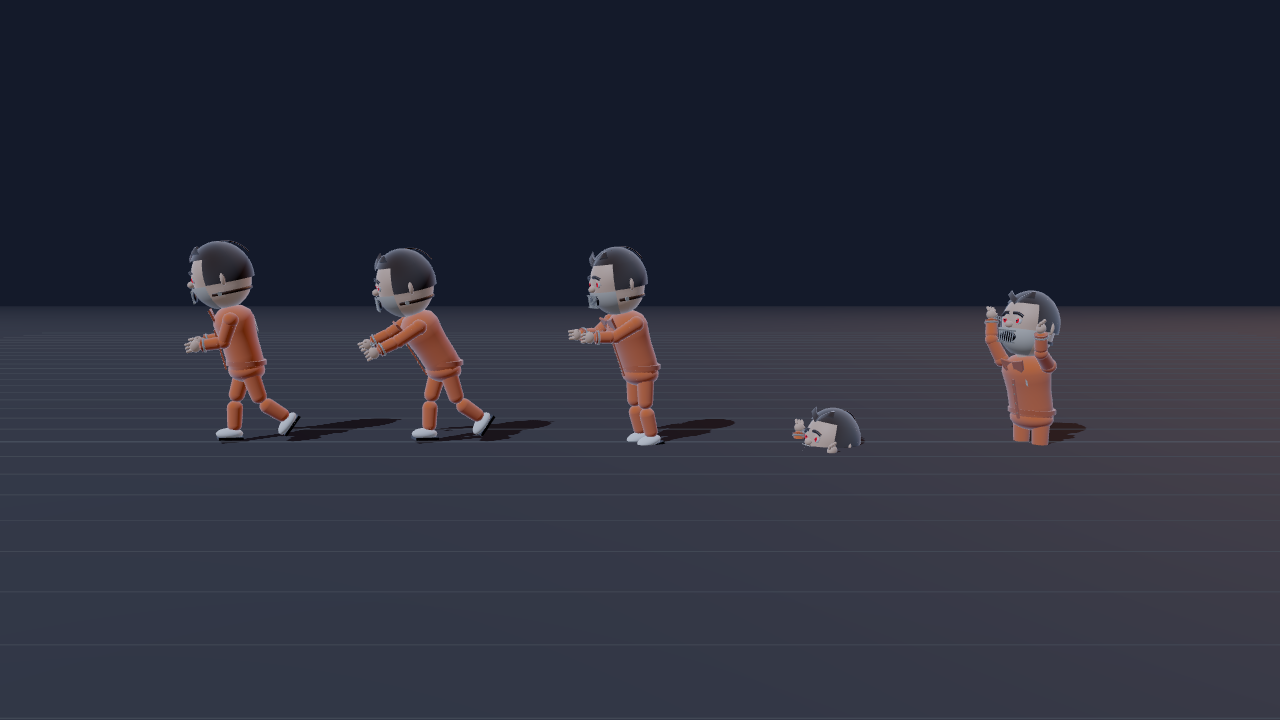
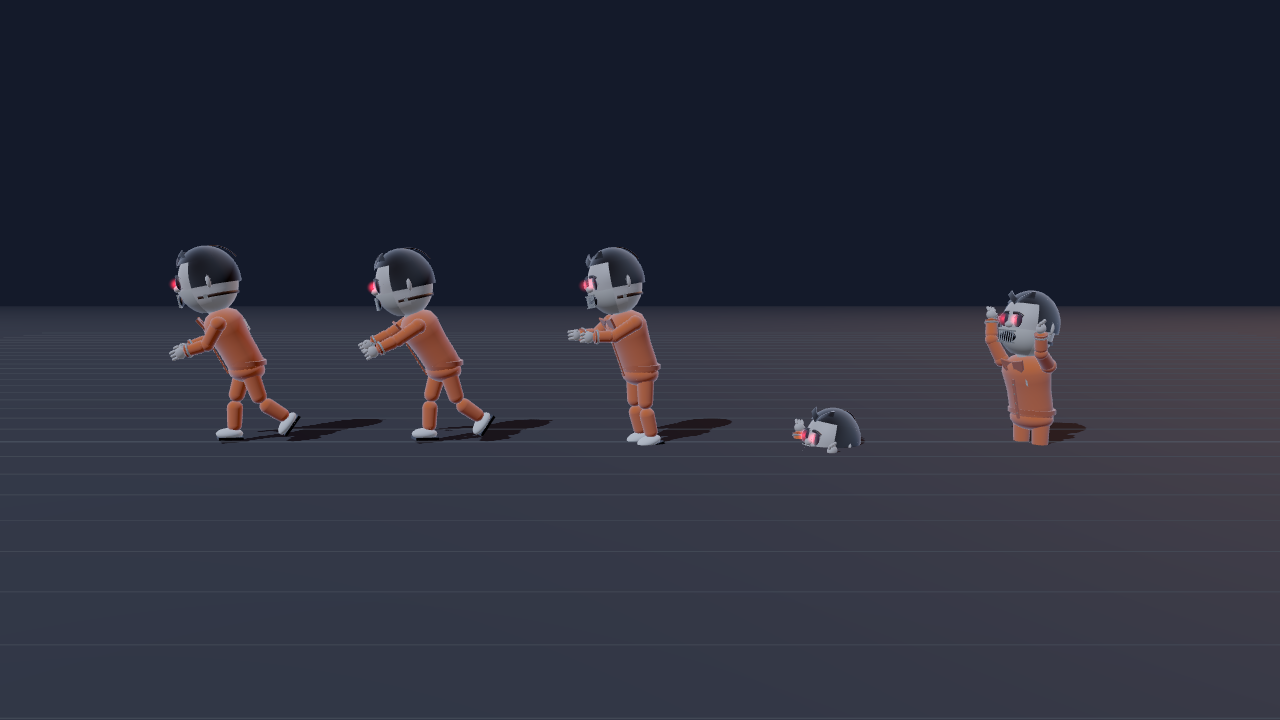
art(halloween): make the villains scarier
- burning eyes: glowing irises (electric blue / blood red / sickly yellow) with additive
  glow sprites that pulse and flicker, pin-prick pupils, yellowed whites, sunken bruised sockets
- pointed teeth in wider grins; sallow / grey / chalk-white skin; grime on the coat,
  a dark stain on the knife
- body language: hunched, head pushed forward, free hands reaching like claws while
  chasing; the head snaps to a crooked angle every second or two
- 3.0 m tall in game (was 2.6), catch reach 0.75 m

Claude-Session: https://claude.ai/code/session_01HrJej4mSimdcKNoWz6TE82

diff --git a/game/src/entities/HunterModel.ts b/game/src/entities/HunterModel.ts
@@ -275,9 +275,9 @@ const TORSO_STD: [number, number][] = [
   [0, -0.16], [0.22, -0.15], [0.29, -0.06], [0.3, 0.12], [0.3, 0.3], [0.32, 0.46], [0.34, 0.58], [0.31, 0.68], [0.2, 0.76], [0.1, 0.79], [0, 0.8],
 ];
 const SPEC: Record<HunterKind, Spec> = {
-  shock: { hipY: 0.95, hipX: 0.15, thigh: 0.45, shin: 0.4, legR: 0.12, torso: TORSO_STD.map(([r, y]) => [r * (y < 0.4 ? 1.08 : 1), y]), flat: 0.8, torsoW: 1.05, shoulderY: 0.66, shoulderX: 0.37, upper: 0.33, fore: 0.29, armR: 0.085, neckY: 0.78, head: [0.4, 0.4, 0.38], headY: 0.38, skin: P('skin', 0xf0c49c) },
-  cannibal: { hipY: 1.0, hipX: 0.15, thigh: 0.48, shin: 0.42, legR: 0.115, torso: TORSO_STD, flat: 0.76, torsoW: 1.0, shoulderY: 0.66, shoulderX: 0.37, upper: 0.34, fore: 0.3, armR: 0.085, neckY: 0.78, head: [0.34, 0.42, 0.36], headY: 0.4, skin: P('skin', 0xe8c1a6) },
-  motel: { hipY: 1.0, hipX: 0.12, thigh: 0.48, shin: 0.43, legR: 0.09, torso: TORSO_STD.map(([r, y]) => [r * 0.84, y]), flat: 0.78, torsoW: 0.9, shoulderY: 0.64, shoulderX: 0.31, upper: 0.35, fore: 0.31, armR: 0.068, neckY: 0.8, head: [0.33, 0.41, 0.34], headY: 0.42, skin: P('skin', 0xf2cdb0) },
+  shock: { hipY: 0.95, hipX: 0.15, thigh: 0.45, shin: 0.4, legR: 0.12, torso: TORSO_STD.map(([r, y]) => [r * (y < 0.4 ? 1.08 : 1), y]), flat: 0.8, torsoW: 1.05, shoulderY: 0.66, shoulderX: 0.37, upper: 0.33, fore: 0.29, armR: 0.085, neckY: 0.78, head: [0.4, 0.4, 0.38], headY: 0.38, skin: P('skin', 0xd6c7a0) },
+  cannibal: { hipY: 1.0, hipX: 0.15, thigh: 0.48, shin: 0.42, legR: 0.115, torso: TORSO_STD, flat: 0.76, torsoW: 1.0, shoulderY: 0.66, shoulderX: 0.37, upper: 0.34, fore: 0.3, armR: 0.085, neckY: 0.78, head: [0.34, 0.42, 0.36], headY: 0.4, skin: P('skin', 0xcfc8c2) },
+  motel: { hipY: 1.0, hipX: 0.12, thigh: 0.48, shin: 0.43, legR: 0.09, torso: TORSO_STD.map(([r, y]) => [r * 0.84, y]), flat: 0.78, torsoW: 0.9, shoulderY: 0.64, shoulderX: 0.31, upper: 0.35, fore: 0.31, armR: 0.068, neckY: 0.8, head: [0.33, 0.41, 0.34], headY: 0.42, skin: P('skin', 0xf1ebe6) },
 };
 
 /** Front (−Z) surface of the lathed torso at (x, y). */
@@ -308,9 +308,15 @@ interface FaceOpts {
   grin: 'smug' | 'wide' | 'none';
   lipstick?: boolean;
   glowIris?: boolean;
+  /** Yellowed / bloodshot whites. */
+  sclera?: Paint;
 }
 
-function buildFace(k: Kit, s: Spec, o: FaceOpts): void {
+/** Eye centres in head space (for the glow sprites). */
+type EyeSpots = [number, number, number][];
+
+function buildFace(k: Kit, s: Spec, o: FaceOpts): EyeSpots {
+  const spots: EyeSpots = [];
   const r = s.head;
   // Ears and nose.
   for (const sx of [-1, 1]) k.add(ell(0.05, 0.085, 0.035, 14, 10), s.skin, sx * r[0] * 0.97, -0.02, 0.02, 0, sx * 0.3, 0);
@@ -321,15 +327,16 @@ function buildFace(k: Kit, s: Spec, o: FaceOpts): void {
     const yaw = sx * o.eyeX;
     const [x, y, z] = onHead(r, yaw, o.eyeY, 0.035);
     const e = o.eyeSize;
-    k.add(ell(e * 0.85, e, e * 0.6, 20, 16), C.sclera, x, y, z, 0, yaw, 0);
+    // Sunken, bruised sockets around every eye.
+    const so = onHead(r, yaw, o.eyeY - 0.01, 0.006);
+    k.add(ell(e * 1.3, e * 1.35, e * 0.45, 18, 12), P('skin', 0x4a2c3a), so[0], so[1], so[2], 0, yaw, 0);
+    k.add(ell(e * 0.85, e, e * 0.6, 20, 16), o.sclera ?? C.sclera, x, y, z, 0, yaw, 0);
     const front = (d: number): [number, number, number] => [x + Math.sin(yaw) * d, y, z - Math.cos(yaw) * d];
     const [ix, iy, iz] = front(e * 0.5);
     k.add(ell(e * 0.5, e * 0.55, e * 0.18, 16, 12), o.glowIris ? P('glow', o.iris.c.getHex()) : o.iris, ix - sx * e * 0.08, iy - e * 0.08, iz, 0, yaw, 0);
     const [px, py, pz] = front(e * 0.6);
-    k.add(ell(e * 0.26, e * 0.3, e * 0.1, 12, 10), C.pupil, px - sx * e * 0.08, py - e * 0.08, pz, 0, yaw, 0);
-    const [hx, hy, hz] = front(e * 0.66);
-    k.add(ell(e * 0.11, e * 0.11, e * 0.05, 8, 6), C.white, hx + e * 0.12, hy + e * 0.12, hz, 0, yaw, 0);
-    k.add(ell(e * 0.05, e * 0.05, e * 0.03, 6, 5), C.white, hx - e * 0.12, hy - e * 0.2, hz, 0, yaw, 0);
+    k.add(ell(e * 0.12, e * 0.2, e * 0.1, 10, 8), C.pupil, px - sx * e * 0.08, py - e * 0.08, pz, 0, yaw, 0); // pin-prick slit
+    spots.push(front(e * 0.7));
     // Upper lid: a skin shell over the top of the eye, rotated down by `lid`.
     const lidG = new THREE.SphereGeometry(1, 20, 10, 0, Math.PI * 2, 0, Math.PI * 0.5).scale(e * 0.93, e * 1.08, e * 0.7);
     k.add(lidG, s.skin, x, y, z, 0.75 - o.lid * 0.95, yaw, sx * o.browAngle * 0.35);
@@ -343,7 +350,7 @@ function buildFace(k: Kit, s: Spec, o: FaceOpts): void {
   // Mouth.
   if (o.grin !== 'none') {
     const wide = o.grin === 'wide';
-    const w = wide ? 0.42 : 0.3;
+    const w = wide ? 0.46 : 0.38;
     const pts: [number, number, number][] = [];
     const ptsLow: [number, number, number][] = [];
     for (let i = 0; i <= 8; i++) {
@@ -355,12 +362,24 @@ function buildFace(k: Kit, s: Spec, o: FaceOpts): void {
     }
     // Mouth opening (dark), teeth band, lip line.
     const mo = onHead(r, 0, -0.42, 0.02);
-    k.add(ell(w * 0.36, wide ? 0.06 : 0.035, 0.03, 18, 10), C.mouth, mo[0], mo[1], mo[2] - 0.005);
-    const tt = onHead(r, 0, -0.39, 0.0);
-    k.add(ell(w * 0.3, wide ? 0.026 : 0.018, 0.022, 16, 8), C.teeth, tt[0], tt[1], tt[2] - 0.012);
+    k.add(ell(w * 0.36, wide ? 0.07 : 0.05, 0.03, 18, 10), C.mouth, mo[0], mo[1], mo[2] - 0.005);
+    // Pointed teeth along both lips.
+    const n = wide ? 7 : 5;
+    for (let i = 0; i < n; i++) {
+      const t = (i + 0.5) / n - 0.5;
+      const yaw = t * w * 1.4;
+      const up = (wide ? 0.07 : 0.05) * (4 * t * t) - 0.02;
+      const a = onHead(r, yaw, -0.38 + up - 0.025, 0.006);
+      k.add(new THREE.ConeGeometry(0.017, 0.055, 5).rotateX(Math.PI), C.teeth, a[0], a[1], a[2] - 0.008);
+      if (i % 2 === 0) {
+        const b = onHead(r, yaw * 0.9, -0.38 + up - (wide ? 0.11 : 0.06) * (1 - 4 * t * t) + 0.02, 0.006);
+        k.add(new THREE.ConeGeometry(0.014, 0.04, 5), C.teeth, b[0], b[1], b[2] - 0.008);
+      }
+    }
     k.add(tube(pts, o.lipstick ? 0.016 : 0.011, 16, 6), o.lipstick ? P('skin', 0xc8202e) : C.lips);
     k.add(tube(ptsLow, o.lipstick ? 0.016 : 0.009, 16, 6), o.lipstick ? P('skin', 0xc8202e) : C.lips);
   }
+  return spots;
 }
 
 // ──────────────────────────────────────────────────────── per character ──
@@ -376,6 +395,8 @@ interface Parts {
   thighR: Kit;
   shinL: Kit;
   shinR: Kit;
+  eyes?: EyeSpots;
+  eyeGlow?: number;
 }
 
 function common(s: Spec, cloth: { top: Paint; sleeve: Paint; leg: Paint; shoe: Paint; cuff?: Paint }): Parts {
@@ -429,6 +450,9 @@ function buildShock(s: Spec): Parts {
   p.torso.add(new THREE.PlaneGeometry(0.17, 0.085), P('badge', 0xffffff), -0.17, 0.5, torsoZ(s, -0.17, 0.5) - 0.012, 0, Math.PI - 0.6, 0); // badge (wearer's left)
   p.torso.add(box(0.15, 0.12, 0.015), coatShade, 0.17, 0.48, torsoZ(s, 0.17, 0.48) - 0.006, 0, 0.6, 0); // breast pocket
   p.torso.add(cyl(0.012, 0.012, 0.13, 8), P('gloss', 0x1f5fbf), 0.15, 0.56, torsoZ(s, 0.15, 0.56) - 0.015); // pen
+  // Grime: grey-brown stains on the coat.
+  for (const [x, y] of [[-0.12, 0.22], [0.2, 0.05], [0.05, 0.4], [-0.22, 0.6]] as const) p.torso.add(ell(0.06, 0.045, 0.012, 10, 6), P('cloth', 0x8c8070), x, y, torsoZ(s, x, y) - 0.003, 0, Math.atan2(x, 0.3) + Math.PI, 0);
+  for (const a of [0.6, 2.2, 3.6, 4.4]) p.pelvis.add(ell(0.07, 0.05, 0.012, 10, 6), P('cloth', 0x7d7262), Math.sin(a) * 0.4, -0.38, Math.cos(a) * 0.34, 0, a, 0);
   // Stethoscope around the neck, chest piece on the right.
   p.torso.add(tube([[-0.16, 0.5, front + 0.02], [-0.15, 0.7, -0.08], [0, 0.79, 0.12], [0.15, 0.7, -0.08], [0.16, 0.5, front + 0.02]], 0.014, 28, 6), P('gloss', 0x2b2e35));
   p.torso.add(cyl(0.04, 0.04, 0.02, 16), P('metal', 0xc9d0d8), 0.16, 0.47, front + 0.01, Math.PI / 2, 0, 0);
@@ -438,10 +462,11 @@ function buildShock(s: Spec): Parts {
     v.x *= 1 + 0.12 * low; // jowls
     v.z *= 1 + 0.05 * low;
   }), s.skin, 0, 0, 0);
-  for (const sx of [-1, 1]) p.head.add(ell(0.07, 0.05, 0.03, 12, 8), P('skin', 0xf2a99a), sx * 0.2, -0.17, -0.31, 0, sx * 0.5, 0); // ruddy cheeks
-  buildFace(p.head, s, { iris: P('gloss', 0x3b2414), eyeY: 0.05, eyeX: 0.3, eyeSize: 0.075, lid: 0.35, brow: P('gloss', 0x141418), browAngle: -0.2, browY: 0.2, grin: 'smug' });
+  for (const sx of [-1, 1]) p.head.add(ell(0.07, 0.05, 0.03, 12, 8), P('skin', 0xa89a78), sx * 0.2, -0.17, -0.31, 0, sx * 0.5, 0); // sallow, sunken cheeks
+  p.eyes = buildFace(p.head, s, { iris: P('glow', 0x8fe8ff), glowIris: true, sclera: P('gloss', 0xe6dcb4), eyeY: 0.05, eyeX: 0.3, eyeSize: 0.075, lid: 0.25, brow: P('gloss', 0x141418), browAngle: 0.45, browY: 0.17, grin: 'smug' });
+  p.eyeGlow = 0x7fd8ff;
   // Hair: black helmet with a side part and a swept fringe; short sides.
-  const hairM = P('cloth', 0x1a1b20);
+  const hairM = P('cloth', 0x0b0c0f);
   p.head.add(new THREE.SphereGeometry(1, 40, 18, 0, Math.PI * 2, 0, 1.15).scale(r[0] * 1.06, r[1] * 1.07, r[2] * 1.07), hairM, 0, 0.01, 0.01);
   p.head.add(new THREE.SphereGeometry(1, 32, 16, -0.45, Math.PI + 0.9, 1.0, 0.85).scale(r[0] * 1.05, r[1] * 1.05, r[2] * 1.06), hairM, 0, 0, 0.01);
   p.head.add(deform(ell(0.26, 0.07, 0.12, 24, 12), (v) => {
@@ -501,9 +526,10 @@ function buildCannibal(s: Spec): Parts {
     const jaw = smooth(-0.2, -0.4, v.y);
     v.x *= 1 + 0.08 * jaw;
   }), s.skin, 0, 0, 0);
-  buildFace(p.head, s, { iris: P('glow', 0xd01a32), glowIris: true, eyeY: 0.08, eyeX: 0.29, eyeSize: 0.068, lid: 0.7, brow: P('gloss', 0x3a2e28), browAngle: 0.5, browY: 0.16, grin: 'none' });
+  p.eyeGlow = 0xff2238;
+  p.eyes = buildFace(p.head, s, { iris: P('glow', 0xff1f36), glowIris: true, sclera: P('gloss', 0xe8c9b8), eyeY: 0.08, eyeX: 0.29, eyeSize: 0.068, lid: 0.7, brow: P('gloss', 0x3a2e28), browAngle: 0.5, browY: 0.16, grin: 'none' });
   // Slicked-back hair with a widow's peak, greying temples.
-  const hair = P('cloth', 0x3a2c24);
+  const hair = P('cloth', 0x1e1612);
   p.head.add(new THREE.SphereGeometry(1, 40, 16, -0.6, Math.PI + 1.2, 0, 1.75).scale(r[0] * 1.05, r[1] * 1.05, r[2] * 1.06), hair, 0, 0.01, 0.015);
   p.head.add(new THREE.SphereGeometry(1, 40, 12, 0, Math.PI * 2, 0, 0.98).scale(r[0] * 1.06, r[1] * 1.06, r[2] * 1.07), hair, 0, 0.012, 0);
   // Widow's peak: the slicked hair dips to a point mid-forehead.
@@ -563,7 +589,8 @@ function buildMotel(s: Spec): Parts {
     v.x *= 1 - 0.1 * smooth(-0.1, -0.4, v.y); // narrow chin
   }), s.skin, 0, 0, 0);
   for (const sx of [-1, 1]) p.head.add(ell(0.06, 0.04, 0.02, 12, 8), P('skin', 0xee8f9a), sx * 0.19, -0.16, -0.27, 0, sx * 0.55, 0); // rouge
-  buildFace(p.head, s, { iris: P('gloss', 0x3d6aa8), eyeY: 0.07, eyeX: 0.29, eyeSize: 0.085, lid: 0.0, brow: P('gloss', 0x5a4636), browAngle: -0.35, browY: 0.24, grin: 'wide', lipstick: true });
+  p.eyeGlow = 0xffd84a;
+  p.eyes = buildFace(p.head, s, { iris: P('glow', 0xffe066), glowIris: true, sclera: P('gloss', 0xf0e2c0), eyeY: 0.07, eyeX: 0.29, eyeSize: 0.09, lid: 0.0, brow: P('gloss', 0x5a4636), browAngle: -0.35, browY: 0.24, grin: 'wide', lipstick: true });
   // Wig: grey curled helmet, bun on top, curls round the sides and back.
   const wig = P('cloth', 0xbfc0c8);
   const wigDark = P('cloth', 0x9fa1ab);
@@ -585,6 +612,7 @@ function buildMotel(s: Spec): Parts {
   p.foreR.add(box(0.04, 0.16, 0.05), P('gloss', 0x3b2416), 0, fy - 0.08, -0.05);
   p.foreR.add(box(0.06, 0.02, 0.09), P('metal', 0xb8c0c8), 0, fy + 0.005, -0.075); // bolster
   const blade = new THREE.Shape([new THREE.Vector2(0, 0), new THREE.Vector2(0.085, 0), new THREE.Vector2(0.08, 0.36), new THREE.Vector2(0.0, 0.52)]);
+  p.foreR.add(ell(0.03, 0.06, 0.008, 8, 6), P('gloss', 0x5a0d12), 0.0, fy + 0.4, -0.115); // dark stain near the tip
   p.foreR.add(new THREE.ExtrudeGeometry(blade, { depth: 0.008, bevelEnabled: true, bevelThickness: 0.003, bevelSize: 0.004, bevelSegments: 1 }), P('metal', 0xe6ecf2), -0.004, fy + 0.0, -0.11, 0, Math.PI / 2, 0);
   return p;
 }
@@ -600,12 +628,27 @@ interface PoseT {
   elR: number;
 }
 const IDLE: Record<HunterKind, PoseT> = {
-  shock: { spine: -0.05, neck: 0.05, tilt: 0, shL: [0.15, -0.18], shR: [0.75, 0.15], elL: 0.35, elR: 0.75 },
-  cannibal: { spine: 0.05, neck: -0.12, tilt: 0, shL: [0.45, 0.18], shR: [0.45, -0.18], elL: 1.1, elR: 1.1 },
-  motel: { spine: -0.1, neck: 0.05, tilt: 0.22, shL: [0.2, -0.12], shR: [2.7, 0.25], elL: 0.4, elR: 0.7 },
+  // Hunched, head pushed forward and up at you; a free hand already reaching.
+  shock: { spine: -0.3, neck: 0.32, tilt: 0.12, shL: [0.9, -0.25], shR: [0.95, 0.15], elL: 0.25, elR: 0.6 },
+  cannibal: { spine: -0.18, neck: 0.12, tilt: -0.1, shL: [0.85, 0.2], shR: [0.85, -0.2], elL: 0.75, elR: 0.75 },
+  motel: { spine: -0.25, neck: 0.3, tilt: 0.35, shL: [0.95, -0.2], shR: [2.75, 0.25], elL: 0.2, elR: 0.7 },
 };
 
 const tmpPose: PoseT = { spine: 0, neck: 0, tilt: 0, shL: [0, 0], shR: [0, 0], elL: 0, elR: 0 };
+
+let GLOW_TEX: THREE.Texture | null | undefined;
+function glowTex(): THREE.Texture | null {
+  if (GLOW_TEX !== undefined) return GLOW_TEX;
+  GLOW_TEX = canvasTex(64, 64, (g) => {
+    const gr = g.createRadialGradient(32, 32, 0, 32, 32, 32);
+    gr.addColorStop(0, 'rgba(255,255,255,1)');
+    gr.addColorStop(0.25, 'rgba(255,255,255,0.6)');
+    gr.addColorStop(1, 'rgba(255,255,255,0)');
+    g.fillStyle = gr;
+    g.fillRect(0, 0, 64, 64);
+  });
+  return GLOW_TEX;
+}
 
 // ──────────────────────────────────────────────────────────────── model ──
 export class HunterModel {
@@ -627,9 +670,13 @@ export class HunterModel {
   private phase = 0;
   private time = 0;
   private sparkT = 0;
+  /** Creepy head jerks: next jerk time and the current snapped offset. */
+  private twitchAt = 1;
+  private twitch = 0;
   private sparks: THREE.LineSegments | null = null;
   private glow: THREE.Sprite | null = null;
   private readonly own: THREE.Material[] = [];
+  private readonly eyeGlows: THREE.Sprite[] = [];
 
   constructor(kind: HunterKind, height = NOMINAL_H) {
     this.kind = kind;
@@ -660,6 +707,22 @@ export class HunterModel {
       kn.add(sh.build('shin'));
     }
     if (kind === 'shock') this.addSparks(s);
+    this.addEyeGlow(head, parts.eyes ?? [], parts.eyeGlow ?? 0xff3040);
+  }
+
+  /** Additive glow over each eye: the villains' eyes burn in the dark. */
+  private addEyeGlow(head: THREE.Object3D, spots: EyeSpots, color: number): void {
+    const tex = glowTex();
+    if (!tex) return;
+    const m = new THREE.SpriteMaterial({ map: tex, color, transparent: true, blending: THREE.AdditiveBlending, depthWrite: false, toneMapped: false });
+    this.own.push(m);
+    for (const [x, y, z] of spots) {
+      const sp = new THREE.Sprite(m);
+      sp.position.set(x, y, z - 0.03);
+      sp.scale.setScalar(0.22);
+      head.add(sp);
+      this.eyeGlows.push(sp);
+    }
   }
 
   private addSparks(s: Spec): void {
@@ -745,8 +808,8 @@ export class HunterModel {
       p.shL[0] += Math.abs(swing) * 0.15;
       p.shR[0] += Math.abs(swing) * 0.15;
     } else {
-      p.shL[0] += -swing;
-      p.elL += 0.8 * run;
+      p.shL[0] += 0.45 * run - swing * 0.2; // reaching claw, barely swinging
+      p.elL -= 0.15 * run;
       if (this.kind === 'shock') p.shR[0] += swing * 0.25 + 0.25 * run;
       else p.shR[0] += Math.sin(ph * 2) * 0.25 * run - 0.1 * run; // the knife stabs in time
     }
@@ -789,6 +852,14 @@ export class HunterModel {
       p.elR = 0.6;
       legA = 0;
     }
+    // Every second or two the head snaps to a new crooked angle, then slowly settles.
+    if (t >= this.twitchAt && pose !== 'rise') {
+      this.twitchAt = t + 0.8 + Math.random() * 1.8;
+      this.twitch = (Math.random() - 0.5) * 0.7;
+      this.neck.rotation.z = p.tilt + this.twitch;
+    }
+    this.twitch *= Math.exp(-1.2 * dt);
+    p.tilt += this.twitch;
     const k = 1 - Math.exp(-14 * dt);
     const ease = (g: THREE.Group, ax: 'x' | 'z', target: number) => (g.rotation[ax] += (target - g.rotation[ax]) * k);
     this.body.position.y += (bodyY + riseOff - this.body.position.y) * (pose === 'rise' ? 1 : k);
@@ -811,6 +882,8 @@ export class HunterModel {
     ease(this.knL, 'x', -(0.15 + 1.1 * Math.max(0, -Math.cos(ph))) * (legA > 0 ? run || 0.6 : 0) - (pose === 'grab' ? 0.25 : 0));
     ease(this.knR, 'x', -(0.15 + 1.1 * Math.max(0, Math.cos(ph))) * (legA > 0 ? run || 0.6 : 0) - (pose === 'grab' ? 0.25 : 0));
     void s;
+    const pulse = 0.2 + Math.sin(t * 5.3) * 0.03 + (Math.random() < 0.02 ? 0.08 : 0);
+    for (const g of this.eyeGlows) g.scale.setScalar(pulse);
     // Baton: flickering glow and redrawn sparks.
     if (this.glow) {
       (this.glow.material as THREE.SpriteMaterial).opacity = 0.65 + Math.random() * 0.35;

diff --git a/game/src/config/halloween.ts b/game/src/config/halloween.ts
@@ -21,8 +21,8 @@ export const HALLOWEEN = {
   /** Everyone runs at this mass in the second half (diameter ≈ 1 m: small again, quick enough to flee). */
   huntMass: 120,
   /** Villain size (m) and catch reach (m, added to the runner's radius). */
-  hunterHeight: 2.6,
-  hunterReach: 0.65,
+  hunterHeight: 3.0,
+  hunterReach: 0.75,
   /** Villain speed as a share of a standard machine's top speed at huntMass, ramping over the hunt. */
   speedStart: 0.8,
   speedEnd: 1.0,
